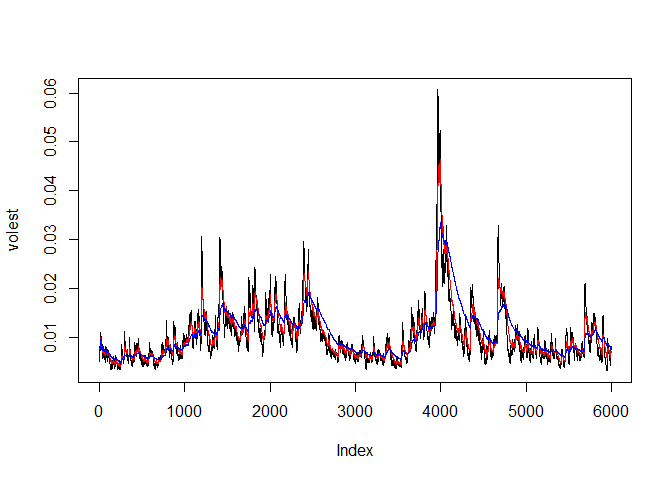
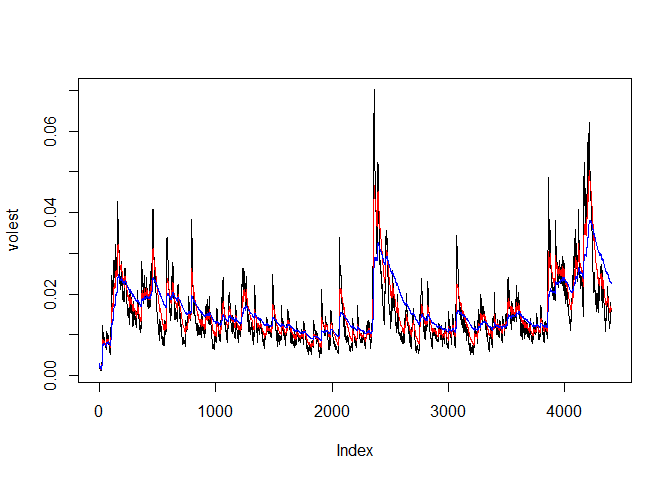
updated to use TCP stocks

diff --git a/LectureAssignment.html b/LectureAssignment.html
@@ -130,25 +130,25 @@ $(document).ready(function () {
 </div>
 <div id="download-data" class="section level1">
 <h1>Download Data</h1>
-<pre class="r"><code>SNPdata&lt;-get.hist.quote(instrument = 'SPY',quote=&quot;Close&quot;)</code></pre>
+<pre class="r"><code>SNPdata&lt;-get.hist.quote(instrument = 'TCP',quote=&quot;Close&quot;)</code></pre>
 <pre><code>## Warning in download.file(url, destfile, method = method, quiet = quiet):
-## downloaded length 418196 != reported length 200</code></pre>
-<pre><code>## time series starts 1993-01-29
+## downloaded length 265492 != reported length 200</code></pre>
+<pre><code>## time series starts 1999-05-25
 ## time series ends   2016-11-11</code></pre>
 <pre class="r"><code>length(SNPdata)</code></pre>
-<pre><code>## [1] 5993</code></pre>
+<pre><code>## [1] 4398</code></pre>
 </div>
 <div id="calculate-log-returns" class="section level1">
 <h1>Calculate Log Returns</h1>
 <pre class="r"><code>SNPret&lt;-log(lag(SNPdata))-log(SNPdata)
 length(SNPret)</code></pre>
-<pre><code>## [1] 5992</code></pre>
+<pre><code>## [1] 4397</code></pre>
 </div>
 <div id="calculate-volatility-measure" class="section level1">
 <h1>Calculate Volatility measure</h1>
 <pre class="r"><code>SNPvol&lt;-sd(SNPret) * sqrt(250)*100
 SNPvol</code></pre>
-<pre><code>## [1] 18.68468</code></pre>
+<pre><code>## [1] 27.62422</code></pre>
 </div>
 <div id="calculate-volatility-and-a-continuous-lookback-window-using-various-decay-factors." class="section level1">
 <h1>Calculate volatility and a continuous lookback window using various decay factors.</h1>
@@ -174,7 +174,7 @@ volest3&lt;-Vol(100, SNPret)</code></pre>
 <pre class="r"><code>plot(volest, type=&quot;l&quot;)
 lines(volest2, type=&quot;l&quot;, col=&quot;red&quot;)
 lines(volest3, type=&quot;l&quot;, col=&quot;blue&quot;)</code></pre>
[2 lines of base64/hex data omitted]
 </div>
 
 

diff --git a/LectureAssignment.md b/LectureAssignment.md
@@ -16,16 +16,16 @@ knitr::opts_chunk$set(echo = TRUE)
 # Download Data
 
 ```r
-SNPdata<-get.hist.quote(instrument = 'SPY',quote="Close")
+SNPdata<-get.hist.quote(instrument = 'TCP',quote="Close")
 ```
 
 ```
 ## Warning in download.file(url, destfile, method = method, quiet = quiet):
-## downloaded length 418196 != reported length 200
+## downloaded length 265492 != reported length 200
 ```
 
 ```
-## time series starts 1993-01-29
+## time series starts 1999-05-25
 ## time series ends   2016-11-11
 ```
 
@@ -34,7 +34,7 @@ length(SNPdata)
 ```
 
 ```
-## [1] 5993
+## [1] 4398
 ```
 
 # Calculate Log Returns
@@ -45,7 +45,7 @@ length(SNPret)
 ```
 
 ```
-## [1] 5992
+## [1] 4397
 ```
 
 # Calculate Volatility measure
@@ -56,7 +56,7 @@ SNPvol
 ```
 
 ```
-## [1] 18.68468
+## [1] 27.62422
 ```
 
 # Calculate volatility and a continuous lookback window using various decay factors.

diff --git a/README.md b/README.md
@@ -1,3 +1,3 @@
 # LecureAssignmentWeek11
 
-The following project will download the stock exchange data for yahoo, calculate the log returns, calculate volatility measure, calculate volatility over entire length of series for various three different decay factors and then plot the results, overlaying the volatility curves on the data.
+The following project will download the stock exchange data for TC PipeLines, calculate the log returns, calculate volatility measure, calculate volatility over entire length of series for various three different decay factors and then plot the results, overlaying the volatility curves on the data.
